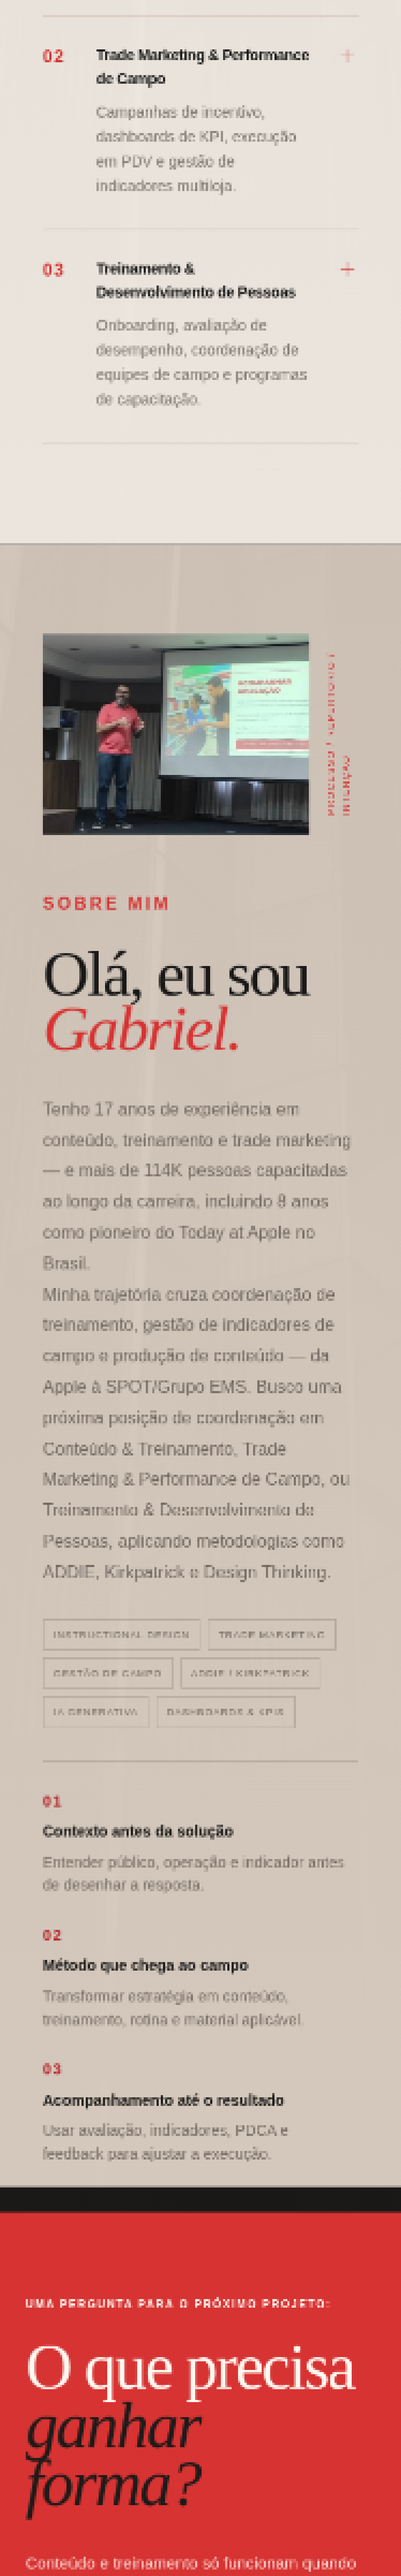
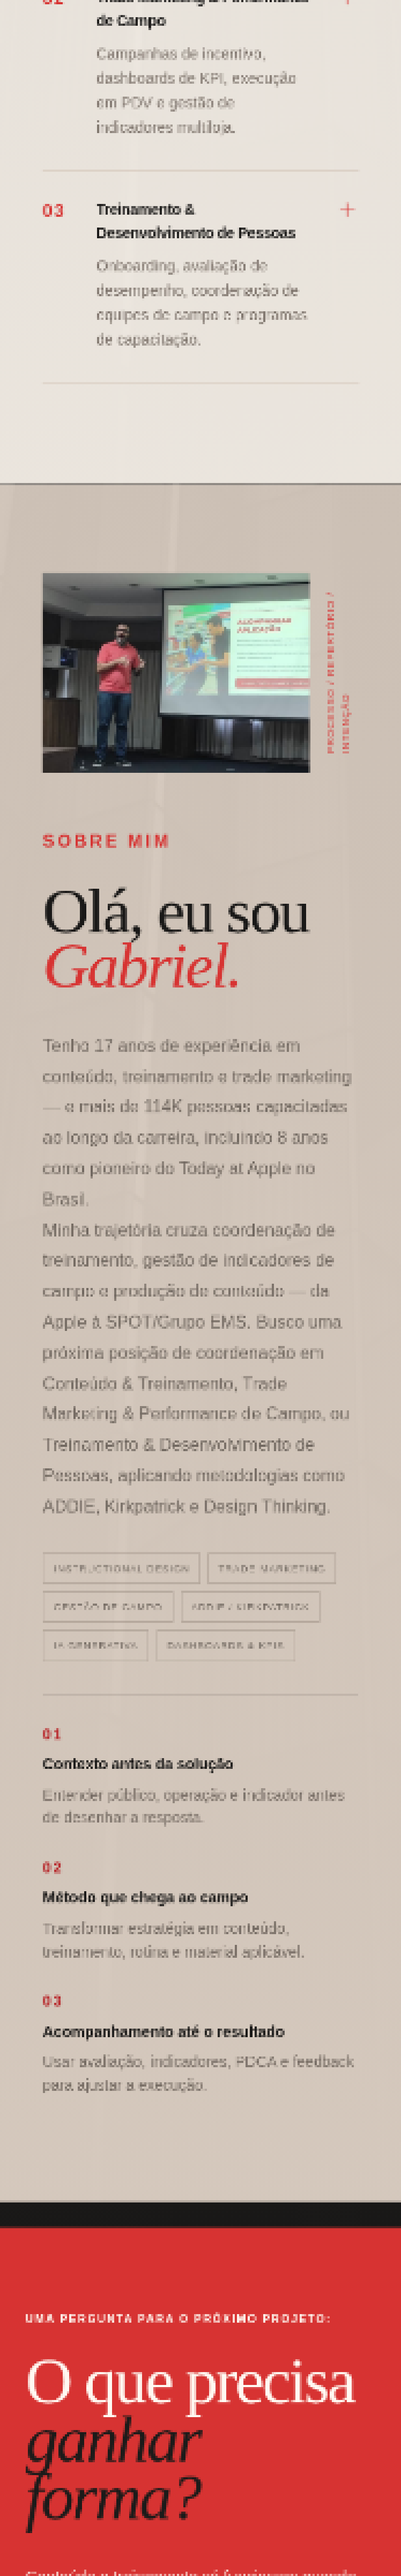
Checkpoint: Correção definitiva do corte na seção Sobre mim: removidas as alturas inline de 23px do contêiner, rótulo, título e parágrafo do item 03. O bloco agora ocupa sua altura natural e termina integralmente antes do hero vermelho. A composição restaurada, as cores e o cabeçalho foram preservad

diff --git a/client/src/pages/Home.tsx b/client/src/pages/Home.tsx
@@ -415,7 +415,7 @@ export default function Home() {
               <div className="about-principles" aria-label="Princípios de coordenação">
                 <div style={{ fontSize: '14px' }}><span style={{ fontSize: '14px' }}>01</span><strong style={{ fontSize: '14px' }}>Contexto antes da solução</strong><p style={{ fontSize: '14px' }}>Entender público, operação e indicador antes de desenhar a resposta.</p></div>
                 <div style={{ fontSize: '14px' }}><span style={{ fontSize: '14px' }}>02</span><strong style={{ fontSize: '14px' }}>Método que chega ao campo</strong><p style={{ fontSize: '14px' }}>Transformar estratégia em conteúdo, treinamento, rotina e material aplicável.</p></div>
-                <div style={{ fontSize: '14px', height: '23px', width: '266px' }}><span style={{ fontSize: '14px', height: '23px', width: '266px' }}>03</span><strong style={{ fontSize: '14px', height: '23px', width: '266px' }}>Acompanhamento até o resultado</strong><p style={{ fontSize: '14px', height: '23px', width: '266px' }}>Usar avaliação, indicadores, PDCA e feedback para ajustar a execução.</p></div>
+                <div style={{ fontSize: '14px' }}><span style={{ fontSize: '14px' }}>03</span><strong style={{ fontSize: '14px' }}>Acompanhamento até o resultado</strong><p style={{ fontSize: '14px' }}>Usar avaliação, indicadores, PDCA e feedback para ajustar a execução.</p></div>
               </div>
             </div>
           </div>

diff --git a/scripts/analyze_band.py b/scripts/analyze_band.py
@@ -1,7 +1,7 @@
 from pathlib import Path
 from PIL import Image
 
-source = Path('/home/ubuntu/screenshots/webdev-preview-root-1786712692401079876-2676.png')
+source = Path('/home/ubuntu/screenshots/webdev-preview-root-1786713810998994096-6000.png')
 image = Image.open(source).convert('RGB')
 rows = []
 for y in range(image.height):

diff --git a/visual-validation-item-three-2026-08-14.md b/visual-validation-item-three-2026-08-14.md
@@ -1,3 +1,7 @@
 # Validação visual — item 03 e hero final
 
 A captura mobile em 375px confirma que a seção Sobre mim termina após a descrição completa do item 03, antes do início do hero vermelho. A correção removeu a sombra ascendente que cobria visualmente a última linha, sem alterar a tipografia, as cores ou o cabeçalho restaurado. A captura desktop mantém a composição editorial anterior intacta.
+
+## Causa real e validação final
+
+Foi identificada uma segunda causa: o item 03 carregava `height: 23px` em seu contêiner, rótulo, título e parágrafo. As alturas inline foram removidas e o bloco voltou a reservar sua altura natural. As capturas mobile e desktop confirmam a descrição completa antes do hero vermelho, sem alteração de composição fora desse bloco.

diff --git a/todo.md b/todo.md
@@ -718,6 +718,11 @@
 - [x] Preservar a composição restaurada sem alterar tipografia, cores ou cabeçalho
 - [x] Validar 375px, desktop, testes e build
 
+## Correção real do item 03
+- [x] Remover as alturas inline de 23px que colapsam o bloco do item 03
+- [x] Confirmar que a seção Sobre mim reserva toda a altura do texto antes do hero vermelho
+- [x] Validar em 375px, desktop, testes e build
+
 ## Verificação da edição ampla em Home.tsx
 - [x] Localizar e remover todos os atributos `style` duplicados gerados pela última edição visual.
 - [x] Manter as melhorias de tipografia e layout desejadas pelo usuário.
